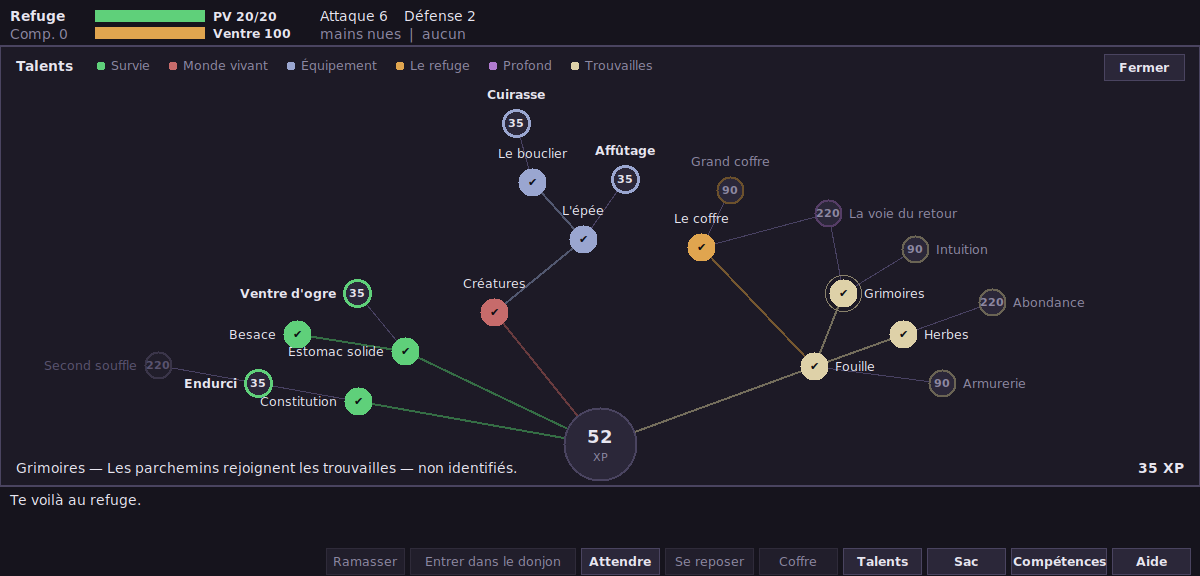
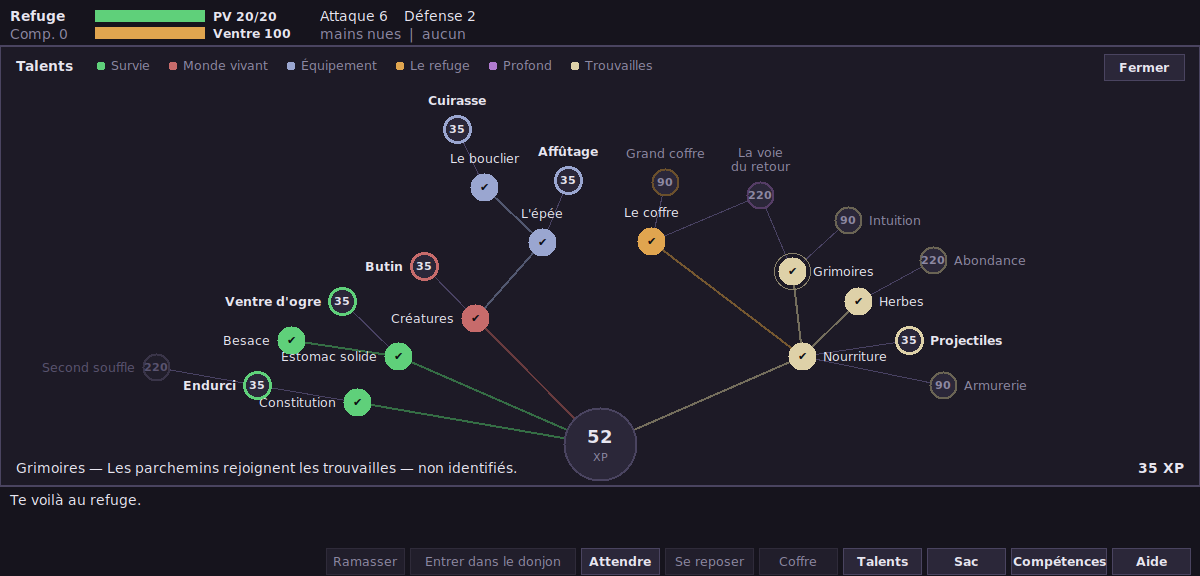
Le butin des créatures, et la chance qui s'y entretient
« Butin » revient dans l'arbre, cette fois avec quelque chose derrière. La
table tient sur les deux axes du bestiaire, comme prévu de longue date : la
classe lâche son outil, la famille lâche sa matière. L'archer laisse ses
flèches, le blindé sa plaque, l'embusqué son parchemin ; l'animal de la
viande, l'humanoïde ses provisions, l'homoncule une herbe de vie. Douze
créatures, deux tables de quatre lignes, et chaque famille ou classe
ajoutée remplira ses cases toute seule.

Une créature ne peut jamais lâcher ce que le donjon n'a pas ouvert :
l'archer laisse ses flèches précisément parce que le talent qui l'a
réveillé est celui qui met des flèches au sol. La boucle se referme.

La compétence « Chance » monte en trouvant du butin et augmente la chance
d'en trouver — première boucle positive du jeu, donc la première à devoir
être plafonnée (60 % de tirage maximum). Au premier réglage elle atteignait
le niveau 0,3 en moyenne, c'est-à-dire qu'elle n'existait pas ; recalée,
elle atteint 1,0 en moyenne et 3 dans les bons runs.

Le nœud paie : 27,3 ± 1,5 sans lui, 32,7 ± 1,7 avec.

Claude-Session: https://claude.ai/code/session_018UFaHGxRzxn1yYEEvUBBBk

diff --git a/tests/test_items.py b/tests/test_items.py
@@ -240,3 +240,61 @@ class TestObjets(unittest.TestCase):
 
 if __name__ == "__main__":
     unittest.main()
+
+
+class TestButin(unittest.TestCase):
+    """Ce qu'une créature laisse en tombant, et la chance qui s'y entretient."""
+
+    def setUp(self):
+        from tests.helpers import place_monster, sandbox
+
+        self.game = sandbox(seed=9)
+        self.joueur = self.game.player
+        self.placer = place_monster
+
+    def _tuer(self, cle="rat", fois=1):
+        laisses = []
+        for _ in range(fois):
+            case = (self.joueur.pos[0] + 1, self.joueur.pos[1])
+            self.game.level.items.pop(case, None)
+            monstre = self.placer(self.game, case, cle)
+            monstre.take_damage(monstre.hp)
+            self.game.check_death(monstre, killer=self.joueur)
+            objet = self.game.level.items.get(case)
+            if objet is not None:
+                laisses.append(objet)
+        return laisses
+
+    def test_sans_le_talent_rien_ne_tombe(self):
+        from donjon.config import RunConfig
+
+        self.game.config = RunConfig(unlocks={"vivres"})
+        self.assertEqual(self._tuer(fois=60), [])
+
+    def test_avec_le_talent_il_tombe_quelque_chose(self):
+        laisses = self._tuer(fois=60)
+        self.assertTrue(laisses)
+        self.assertLess(len(laisses), 60)          # jamais garanti
+
+    def test_une_creature_ne_lache_pas_ce_qui_est_verrouille(self):
+        """L'archer laisse ses flèches parce que son talent les a ouvertes."""
+        from donjon.config import RunConfig
+
+        self.game.config = RunConfig(unlocks={"butin", "vivres"})
+        for objet in self._tuer("limace", fois=80):
+            self.assertEqual(objet.type.key, "onigiri")
+
+    def test_ramasser_du_butin_entraine_la_chance(self):
+        self._tuer(fois=60)
+        self.assertGreater(self.joueur.skills.level("chance"), 0)
+
+    def test_la_chance_est_plafonnee(self):
+        """Elle s'entretient de ce qu'elle produit : sans plafond, elle s'emballe."""
+        from donjon.game import CHANCE_BUTIN, CHANCE_BUTIN_MAX
+
+        self.joueur.skills.levels["chance"] = 500
+        self.assertGreater(self.joueur.bonus("chance"), 1)
+        self.assertLess(CHANCE_BUTIN_MAX, 1.0)
+        self.assertGreater(CHANCE_BUTIN_MAX, CHANCE_BUTIN)
+        laisses = self._tuer(fois=100)
+        self.assertLess(len(laisses), 90)

diff --git a/donjon/skills.py b/donjon/skills.py
@@ -36,6 +36,7 @@ EFFETS = {
     "duree_effet": "tours en plus sur les effets de parchemins",
     "regeneration": "tours en moins entre deux points de vie regagnés",
     "esquive": "chance d'éviter un coup entièrement (0.03 = 3 %)",
+    "chance": "chance qu'une créature vaincue laisse quelque chose",
 }
 
 
@@ -51,6 +52,7 @@ LIBELLES = {
     "duree_effet": "tour d'effet",
     "regeneration": "tour de repos en moins",
     "esquive": "d'esquive",
+    "chance": "de butin",
 }
 
 
@@ -83,7 +85,7 @@ class Skill:
         for effet, valeur in self.effects.items():
             if effet == "endurance":
                 morceaux.append(f"{valeur * 100:g} % {LIBELLES[effet]}")
-            elif effet == "esquive":
+            elif effet in ("esquive", "chance"):
                 morceaux.append(f"+{valeur * 100:g} % {LIBELLES[effet]}")
             else:
                 morceaux.append(f"+{valeur:g} {LIBELLES[effet]}")
@@ -126,6 +128,12 @@ _enregistrer(
           effects={"esquive": 0.09},
           note="S'apprend en encaissant sans bouclier : le corps apprend à "
                "se dérober."),
+    # Elle s'entretient de ce qu'elle produit : une boucle, donc plafonnée
+    # dans le moteur (CHANCE_BUTIN_MAX). Sans plafond, un run chanceux le
+    # resterait de plus en plus.
+    Skill("chance", "Chance", base=2, growth=1.6,
+          effects={"chance": 0.03},
+          note="Ce qu'on trouve donne l'œil pour trouver encore."),
     Skill("herboristerie", "Herboristerie", base=2, growth=1.6,
           effects={"soin": 2},
           note="Les herbes rendent davantage."),
@@ -191,6 +199,7 @@ REGLES = (
           si=lambda e: e.get("menace") and e.get("bouclier") is None),
     Regle(events.REPOS, "recuperation"),
     Regle(events.USAGE_OBJET, "@objet"),
+    Regle(events.BUTIN, "chance"),
     Regle(events.JET, "jet"),
     Regle(events.JET, "@objet", si=lambda e: e["cible"] is not None),
 )

diff --git a/donjon/game.py b/donjon/game.py
@@ -36,6 +36,10 @@ DEGATS_A_DISTANCE = 0.75
 #: invulnérable au lieu d'être une autre façon de jouer. Élevé parce qu'elle
 #: remplace à elle seule un bouclier ET la compétence qui va avec.
 ESQUIVE_MAX = 0.55
+#: Chance qu'une créature vaincue laisse quelque chose, et son plafond une fois
+#: la chance du héros ajoutée.
+CHANCE_BUTIN = 0.22
+CHANCE_BUTIN_MAX = 0.60
 
 
 class Game:
@@ -467,7 +471,31 @@ class Game:
             self.notify(events.MONSTRE_VAINCU, monstre=actor,
                         arme=self.player.weapon,
                         distance=chebyshev(self.player.pos, actor.pos))
+            self._laisser_butin(actor)
         return True
+
+    def _laisser_butin(self, monstre):
+        """Ce qu'une créature laisse en tombant : sa classe, ou sa famille.
+
+        Elle ne peut jamais lâcher ce que le donjon n'a pas encore ouvert : un
+        archer laisse ses flèches parce que le talent qui l'a réveillé est
+        celui-là même qui met des flèches au sol.
+        """
+        if "butin" not in self.config.unlocks:
+            return
+        possibles = [cle for cle in monsters.butin_possible(monstre.species)
+                     if items.ITEM_TYPES[cle].unlock in (None, *self.config.unlocks)]
+        if not possibles or monstre.pos in self.level.items:
+            return
+        chance = min(CHANCE_BUTIN_MAX,
+                     CHANCE_BUTIN + self.player.bonus("chance"))
+        if not self.rng.chance(chance):
+            return
+        objet = items.make(self.rng.choice(possibles),
+                           registre=self.identification)
+        self.level.items[monstre.pos] = objet
+        self.say(f"{monstre.name} laisse {objet.name}.")
+        self.notify(events.BUTIN, objet=objet, monstre=monstre)
 
     def end_run(self, state, message):
         """Clôt la partie et fige son bilan — le seul objet que lira le méta."""

diff --git a/donjon/monsters.py b/donjon/monsters.py
@@ -152,6 +152,30 @@ BESTIAIRE = [
 ]
 
 
+#: Ce qu'une créature laisse, sur les deux axes : sa classe lâche son outil,
+#: sa famille lâche sa matière. Une case du bestiaire peut ajouter le sien.
+#: Rien n'est garanti — voir `Game._laisser_butin` pour le tirage.
+BUTIN_CLASSE = {
+    "archer": ("fleche",),
+    "guerrier": ("epee_bois",),
+    "blinde": ("bouclier_bois",),
+    "embusque": ("parchemin_teleport",),
+}
+BUTIN_FAMILLE = {
+    "animal": ("onigiri",),
+    "humanoide": ("onigiri", "herbe_soin"),
+    "homoncule": ("herbe_vie",),
+}
+
+
+def butin_possible(espece):
+    """Les clés d'objets que cette créature peut laisser."""
+    return tuple(dict.fromkeys(
+        BUTIN_CLASSE.get(espece["classe"], ())
+        + BUTIN_FAMILLE.get(espece["famille"], ())
+        + tuple(espece.get("butin", ()))))
+
+
 def _composer(entree):
     """Une entrée complétée par sa famille et sa classe.
 

diff --git a/donjon/tree.py b/donjon/tree.py
@@ -103,6 +103,11 @@ _enregistrer(
           reglages={"monsters_per_floor": (3, 6), "traps_per_floor": (1, 3),
                     "spawn_interval": 30}),
 
+    Noeud("butin", "Butin", 35,
+          "Les créatures vaincues laissent parfois quelque chose : leur arme, "
+          "leur pitance. Ce qu'on ramasse ainsi aiguise l'œil.",
+          branche="Monde vivant", parents=("creatures",), unlocks=("butin",)),
+
     # --- Trouvailles : ce qui traîne par terre ----------------------------
     Noeud("nourriture", "Nourriture", 12,
           "Des vivres apparaissent au sol : de quoi tenir plus loin que ce "

diff --git a/donjon/config.py b/donjon/config.py
@@ -15,7 +15,8 @@ modification du moteur.
 from . import monsters
 
 #: Une config construite à la main (tests, bot, CLI) a tout le contenu.
-TOUT_DEBLOQUE = frozenset({"vivres", "projectiles", "herbes", "grimoires",
+TOUT_DEBLOQUE = frozenset({"butin", "vivres", "projectiles", "herbes",
+                           "grimoires",
                            "intuition", "armurerie", "coffre", "orbe"})
 
 #: De même pour le bestiaire : toutes les classes de créatures.

diff --git a/donjon/events.py b/donjon/events.py
@@ -49,10 +49,11 @@ EQUIPEMENT = "equipement"
 JET = "jet"
 DESCENTE = "descente"
 REPOS = "repos"
+BUTIN = "butin"
 
 #: Tous les évènements que le moteur sait émettre, pour vérifier les tables.
 NOMS = (PAS, ATTENTE, COUP, COUP_RECU, MONSTRE_VAINCU, RAMASSAGE, POSE,
-        USAGE_OBJET, EQUIPEMENT, JET, DESCENTE, REPOS)
+        USAGE_OBJET, EQUIPEMENT, JET, DESCENTE, REPOS, BUTIN)
 
 
 class Event:

diff --git a/docs/plan-incremental.md b/docs/plan-incremental.md
@@ -90,7 +90,7 @@ alors une récompense assumée, à garder en tête en écrivant ces tables.
 | 10 | Familles et classes de créatures ; ce qu'on apprend, le donjon l'apprend | ✅ fait |
 | 11 | L'archer : le tir, et ce qu'il change au déplacement | ✅ fait |
 | 12 | L'esquive : encaisser ou se dérober, deux runs différents | ✅ fait |
-| 13 | Le butin des créatures | à faire |
+| 13 | Le butin des créatures, et la compétence « Chance » | ✅ fait |
 
 Chaque étape laisse le jeu lançable et jouable.
 
@@ -529,6 +529,37 @@ regardait pas le bras. Le run avec bouclier entraînait donc l'esquive sans
 jamais s'en servir, et comme le méta compte la somme des niveaux, il gagnait de
 l'XP pour une compétence morte — 27,3 → 32,8. Une compétence qui monte sans
 servir est de l'inflation, pas de la progression.
+
+### Étape 13 — le butin, et la chance qui s'y entretient
+
+Le nœud « Butin » revient dans l'arbre, cette fois avec quelque chose derrière.
+La table tient sur les deux axes du bestiaire, comme prévu de longue date :
+
+> **la classe lâche son outil, la famille lâche sa matière.**
+
+L'archer laisse ses flèches, le guerrier son épée, le blindé sa plaque,
+l'embusqué son parchemin de téléportation ; l'animal laisse de la viande,
+l'humanoïde ses provisions, l'homoncule une herbe de vie. Douze créatures, deux
+tables de quatre lignes, et chaque famille ou classe ajoutée remplit ses cases
+toute seule.
+
+**Une créature ne peut jamais lâcher ce que le donjon n'a pas ouvert.** L'archer
+laisse ses flèches précisément parce que le talent qui l'a réveillé est celui
+qui met des flèches au sol : la boucle se referme sur elle-même. Un gobelin tué
+par un joueur qui n'a pas « Nourriture » ne laisse pas de vivres.
+
+**La compétence « Chance »** monte en trouvant du butin et augmente la chance
+d'en trouver : elle s'entretient de ce qu'elle produit. C'est la première
+boucle positive du jeu, donc la première à devoir être plafonnée — le moteur
+borne le tirage à 60 %, sans quoi un run chanceux le deviendrait de plus en
+plus. Premier réglage : elle atteignait le niveau 0,3 en moyenne, c'est-à-dire
+qu'elle n'existait pas. Recalée (base 2, +3 % par niveau), elle atteint 1,0 en
+moyenne et 3 dans les bons runs.
+
+| | XP/vie |
+|---|---|
+| sans « Butin » | 27,3 ± 1,5 |
+| avec « Butin » | **32,7 ± 1,7** |
 
 ## Règles fixées en cours de route
 

diff --git a/README.md b/README.md
@@ -184,6 +184,10 @@ Deux choix structurent la suite :
  "depth": (4, 99), "weight": 10, "color": "#d0c05b", "shape": "pointu"}
 ```
 
+Ce qu'elle laisse en tombant vient des mêmes axes : la classe lâche son outil
+(l'archer ses flèches), la famille sa matière (l'animal de la viande) — et
+jamais ce que le donjon n'a pas encore ouvert.
+
 La famille donne l'allure par défaut et, bientôt, les forces et faiblesses ; la
 classe donne le comportement (voir `ai.py`) et le talent qui la réveille.
 `glyph` sert au terminal, `color` et `shape` (`rond`, `carre`, `pointu`) à la
